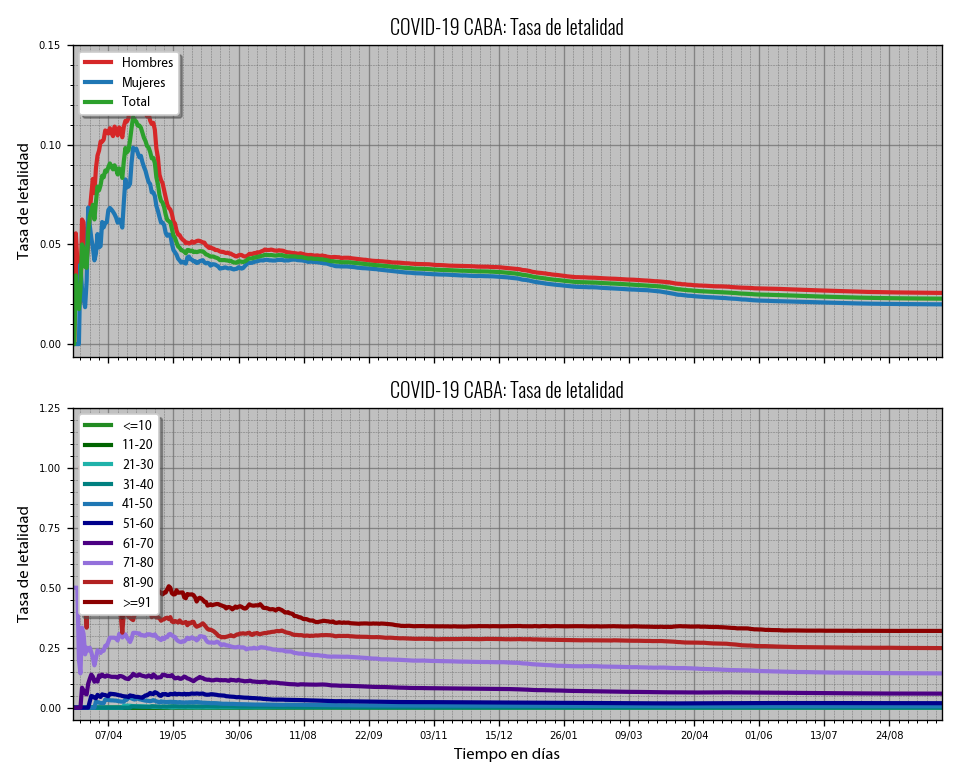
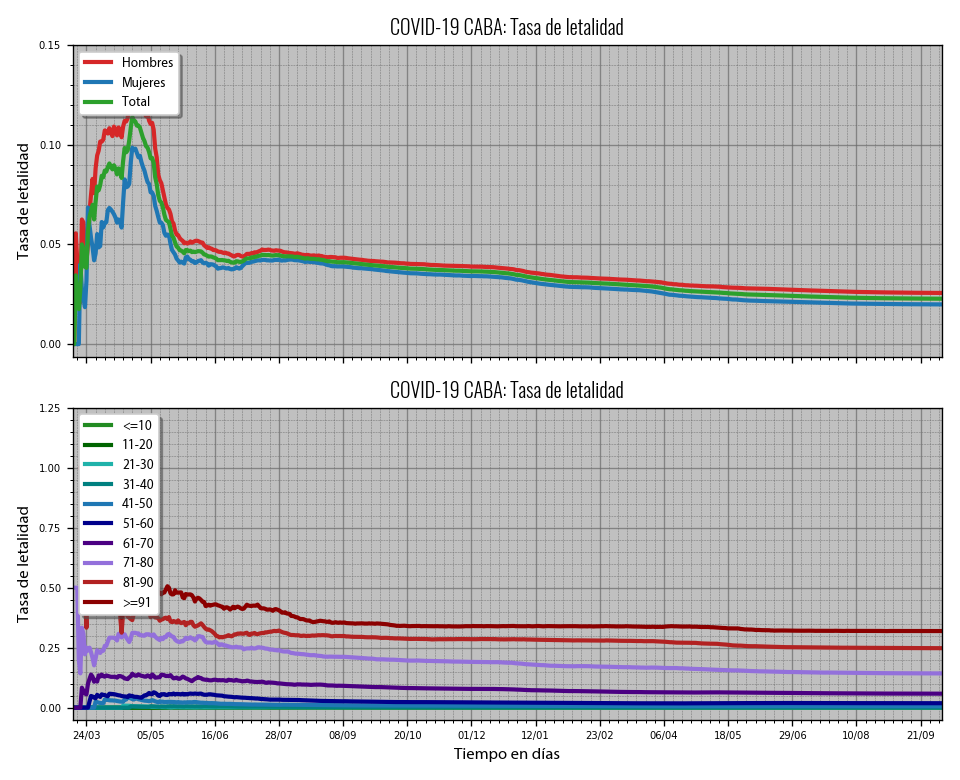
Updating charts...

Changed region(s): [[0.0625, 0.0615, 0.9688, 0.4615], [0.0625, 0.5231, 0.9688, 0.9538]]

diff --git a/p_trigger_last_30.py b/p_trigger_last_30.py
@@ -1,0 +1,26 @@
+import p_emergencycalls as ecalls
+import p_vaccinations as vac
+import p_cases as cases
+import p_analysis as sis
+
+print("#############################################", end="\n")
+print("   COVID-19: Buenos Aires city open data     ", end="\n")
+print("---___________ Last 30 days -----------------", end="\n")
+print("https://gitlab.com/rodrigovalla/covid-19-caba", end="\n")
+print("---------------------------------------------", end="\n")
+
+#Building emergency calls charts
+ecalls.plot_calls_ratios_avg(0, 0.025,1)
+ecalls.plot_total_calls_avg()
+
+#Building vaccination champaign charts
+vac.plot_doses_by_age_avg(0, 3000, 1000)
+vac.plot_doses_by_vac_avg(0, 5000, 1000)
+
+#Building cases charts
+cases.plot_total_avg(0, 0, 125, 1, 3, 1)
+cases.plot_cases_by_age_avg(0, 0, 50, 1, 2, 1)
+cases.plot_cases_by_zone_avg(0, 0, 25, 2, 0.5, 1)
+
+#Building analysis charts
+sis.plot_age_ratios(0, 0, 0.3, 0.5, 0.1, 0.25)

diff --git a/p_trigger_last_90.py b/p_trigger_last_90.py
@@ -1,0 +1,26 @@
+import p_emergencycalls as ecalls
+import p_vaccinations as vac
+import p_cases as cases
+import p_analysis as sis
+
+print("#############################################", end="\n")
+print("   COVID-19: Buenos Aires city open data     ", end="\n")
+print("---___________ Last 90 days -----------------", end="\n")
+print("https://gitlab.com/rodrigovalla/covid-19-caba", end="\n")
+print("---------------------------------------------", end="\n")
+
+#Building emergency calls charts
+ecalls.plot_calls_ratios_avg(0, 0.025,1)
+ecalls.plot_total_calls_avg()
+
+#Building vaccination champaign charts
+vac.plot_doses_by_age_avg(0, 3000, 1000)
+vac.plot_doses_by_vac_avg(0, 5000, 1000)
+
+#Building cases charts
+cases.plot_total_avg(0, 0, 250, 1, 3, 1)
+cases.plot_cases_by_age_avg(0, 0, 50, 1, 2, 1)
+cases.plot_cases_by_zone_avg(0, 0, 25, 2, 0.5, 1)
+
+#Building analysis charts
+sis.plot_age_ratios(0, 0, 0.3, 0.5, 0.1, 0.25)

diff --git a/chart_config.py b/chart_config.py
@@ -8,7 +8,7 @@ w = 8
 h = 4.5
 d_w = 8
 d_h = 6.5
-chart_path = "charts/"
+chart_path = "charts/last_30/"
 default_font = "Oswald" #Change this if you don't like it or is not available in your system
 legend_font = "Myriad Pro" #Change this to edit legends' font
 background_plot = "silver" #Default background color for charts
@@ -25,13 +25,13 @@ image_resolution = 120
 language = 1 #0 = english, 1 = spanish
 legend_text_size = 8
 plot_scale = "linear"
-start_date = "2020-11-01"
-end_date = "2021-09-27"
-week_interval = 3
-v_start_date = "2021-01-01"
-v_week_interval = 2
-e_start_date = "2020-03-15"
-e_week_interval = 6
+start_date = "2021-09-05" #"2020-09-01"
+end_date = "2021-10-05"
+week_interval = 1 #3
+v_start_date = "2021-09-05" #"2021-01-01"
+v_week_interval = 1 #2
+e_start_date = "2021-09-05" #"2020-03-15"
+e_week_interval = 1 #6
 
 if language == 1:
 	date_format = mdates.DateFormatter("%d/%m")
